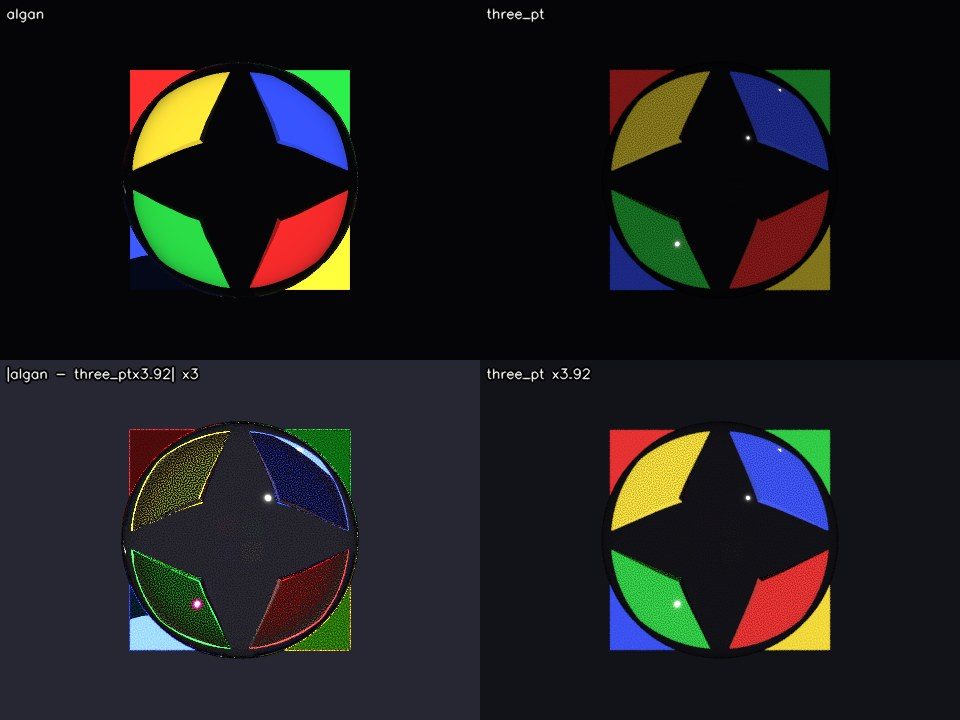
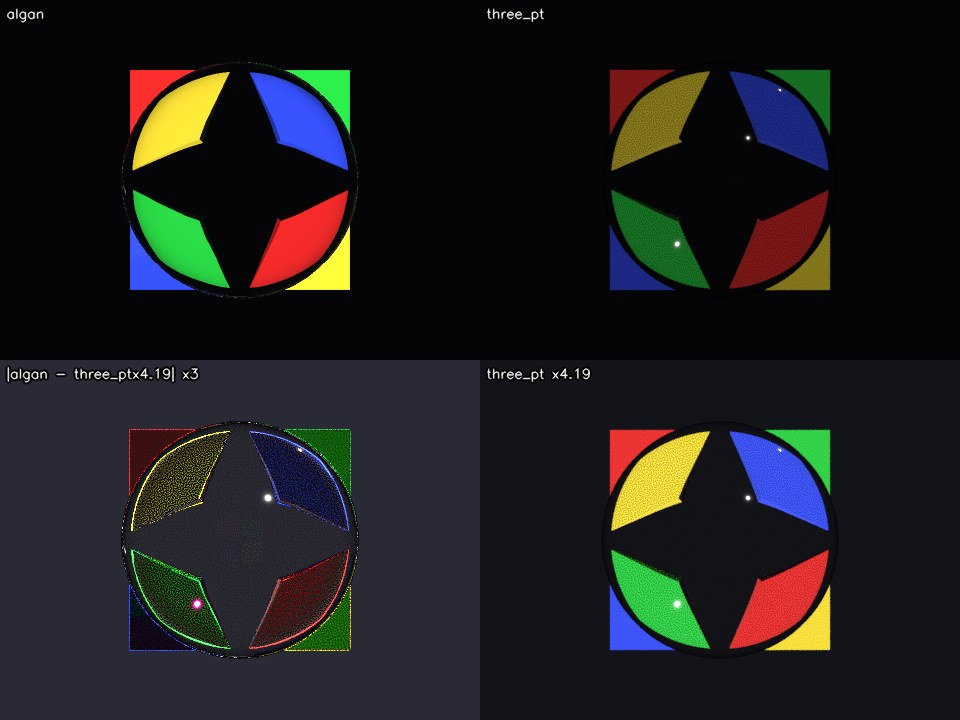
Let a transmissive surface pass light to a shadow ray
Measured against three-gpu-pathtracer on a scene with a clear glass sphere and
an opaque sphere of the same size over a floor, lit straight down
(benchmarks/renderer_audit/scenes/calib_shadow.json): the glass sphere's
shadow was 1.0% of the open floor's brightness, and so was the opaque
sphere's. The reference passes 101.9% (above 100 because a glass ball is a
lens). Algan's glass blocked light exactly as completely as a brick.

The shadow march attenuated by coverage alone -- transmitted *= 1.0 - alpha --
and never read transmission or ior, so a window, a wine glass and a brick were
one object to a shadow ray. Each hit now passes

    transmission * (1 - metalness) * (1 - F0)

of the light it covers. F0 is the normal-incidence dielectric reflectance
rather than a real angle-dependent Fresnel: the march has no normals, and
fetching them would cost the hottest loop in the renderer for a second-order
effect. It is also less of an approximation than it sounds, because a solid
presents the march two surfaces, entry and exit, each taking its own 1 - F0.
Metalness gates transmission off exactly as _material_reflectance does, so a
metal stays opaque at any transmission. The same change lands in the KBUF
gather variant, which peels the same stack.

Two things it deliberately does not do, both because a shadow query returns
one scalar per light: it does not bend the light, so there is no caustic core,
and it does not tint it, so the shadow under green glass gets brighter but
[…]

diff --git a/algan/rendering/raytracing/raytrace_kernels_taichi.py b/algan/rendering/raytracing/raytrace_kernels_taichi.py
@@ -1494,6 +1494,80 @@ def _triangle_extra(f, prim, w0, w1, w2, tri_extra: ti.template()):
 
 
 @ti.func
+def _shadow_pass_through(f, prim, hit_type, w0, w1, w2,
+                         tri_extra: ti.template(),
+                         circuit_meta: ti.template()):
+    """Fraction of the light a *covered* surface still passes to a shadow ray.
+
+    The march multiplies by ``1 - alpha`` for the part of the pixel a surface
+    does not cover; this is what the covered part does with the light, which
+    for anything transmissive is most of it. Without it a wine glass and a
+    brick are the same object to a shadow ray -- measured against a path
+    tracer, a clear glass sphere's shadow was as dark as an opaque sphere's
+    (1% of the open floor, where the reference passes ~100%).
+
+        pass = transmission * (1 - metalness) * (1 - F0)
+
+    ``metalness < 0`` is the non-PBR sentinel and passes nothing, matching the
+    old behaviour exactly. The metal share never transmits, the same gate
+    ``_material_reflectance`` applies via ``diel_pass``.
+
+    F0 is the *normal-incidence* dielectric reflectance, not an angle-dependent
+    Fresnel: the march has no normals and fetching them would cost the hottest
+    loop in the renderer for a second-order effect. It is also less of an
+    approximation than it looks -- a solid presents the march two surfaces
+    (entry and exit), each taking its own ``1 - F0``, so a glass ball attenuates
+    by 0.96^2 on its own.
+
+    Two things this deliberately does not model, both because the payload
+    cannot carry them:
+
+    * **Refraction.** Real glass bends the light it passes, which is why a
+      glass ball's shadow has a bright caustic core; a shadow ray that
+      continues straight cannot produce one.
+    * **Colour.** Light through green glass should arrive green, but a shadow
+      query returns one scalar visibility per light (``vis[li]``), so the
+      shadow gets brighter and stays grey. Tinting it would mean an RGB
+      visibility payload all the way through the shade path.
+
+    So the honest description is "a transmissive surface stops blocking light",
+    not "glass casts a correct shadow".
+    """
+    metalness = -1.0
+    ior = 0.0
+    transmission = 0.0
+    if hit_type == 1:
+        # Same guard as ``_flat_triangle_extra``: a promoted constant-material
+        # triangle sits past the shrunk ``tri_extra``, and has no per-vertex row.
+        if prim < tri_extra.shape[1]:
+            te = f % tri_extra.shape[0]
+            metalness = (w0 * tri_extra[te, prim, 0]
+                         + w1 * tri_extra[te, prim, 2]
+                         + w2 * tri_extra[te, prim, 4])
+            ior = (w0 * tri_extra[te, prim, 6]
+                   + w1 * tri_extra[te, prim, 7]
+                   + w2 * tri_extra[te, prim, 8])
+            transmission = (w0 * tri_extra[te, prim, 9]
+                            + w1 * tri_extra[te, prim, 10]
+                            + w2 * tri_extra[te, prim, 11])
+    else:
+        cm = f % circuit_meta.shape[0]
+        metalness = circuit_meta[cm, prim, _M_REFLECTIVITY]
+        ior = circuit_meta[cm, prim, _M_IOR]
+        transmission = circuit_meta[cm, prim, _M_TRANSMISSION]
+    out = 0.0
+    if (metalness >= 0.0) and (transmission > 1e-4):
+        m = ti.math.clamp(metalness, 0.0, 1.0)
+        io = ti.abs(ior)
+        f0 = 0.0
+        if io > 1.0 + 1e-4:
+            r0 = (1.0 - io) / (1.0 + io)
+            f0 = r0 * r0
+        out = ti.math.clamp(transmission, 0.0, 1.0) * (1.0 - m) * (1.0 - f0)
+    return ti.math.clamp(out, 0.0, 1.0)
+
+
+@ti.func
 def _triangle_normal(f, prim, w0, w1, w2, tri_norm: ti.template(),
                      tri_pos: ti.template()):
     """Interpolated shading normal of a triangle hit, falling back to the
@@ -2448,6 +2522,7 @@ def _shadow_occluded(refit: ti.template(), anyhit: ti.template(),
                      t_first_leaf, tri_pos: ti.template(),
                      tri_colors: ti.template(), tri_uvs: ti.template(),
                      tri_tex_meta: ti.template(), textures: ti.template(),
+                     tri_extra: ti.template(),
                      num_colored_triangles: ti.i32,
                      b_nodes: ti.template(), b_node_miss: ti.template(),
                      b_leaf_prim: ti.template(), b_leaf_tspan: ti.template(),
@@ -2503,7 +2578,7 @@ def _shadow_occluded(refit: ti.template(), anyhit: ti.template(),
                 has_tri, has_bez,
                 t_nodes, t_node_miss, t_leaf_prim, t_leaf_tspan,
                 t_first_leaf, tri_pos, tri_colors, tri_uvs, tri_tex_meta,
-                textures, num_colored_triangles,
+                textures, tri_extra, num_colored_triangles,
                 b_nodes, b_node_miss, b_leaf_prim, b_leaf_tspan,
                 b_first_leaf, circuit_meta, circuit_colors,
                 circuit_border_colors, edges_2d, edge_accel)
@@ -2514,7 +2589,7 @@ def _shadow_occluded(refit: ti.template(), anyhit: ti.template(),
                 has_tri, has_bez,
                 t_nodes, t_node_miss, t_leaf_prim, t_leaf_tspan,
                 t_first_leaf, tri_pos, tri_colors, tri_uvs, tri_tex_meta,
-                textures, num_colored_triangles,
+                textures, tri_extra, num_colored_triangles,
                 b_nodes, b_node_miss, b_leaf_prim, b_leaf_tspan,
                 b_first_leaf, circuit_meta, circuit_colors,
                 circuit_border_colors, edges_2d, edge_accel)
@@ -2536,6 +2611,7 @@ def _shadow_march_occluded(refit: ti.template(), anyhit: ti.template(),
                            tri_colors: ti.template(), tri_uvs: ti.template(),
                            tri_tex_meta: ti.template(),
                            textures: ti.template(),
+                           tri_extra: ti.template(),
                            num_colored_triangles: ti.i32,
                            b_nodes: ti.template(), b_node_miss: ti.template(),
                            b_leaf_prim: ti.template(),
@@ -2591,8 +2667,18 @@ def _shadow_march_occluded(refit: ti.template(), anyhit: ti.template(),
             alpha = _circuit_alpha(prim, f, a, b, border, circuit_meta,
                                    circuit_colors, circuit_border_colors)
         alpha = ti.math.clamp(alpha, 0.0, 1.0)
-        transmitted *= 1.0 - alpha
-        if alpha >= 1.0:
+        # What the covered part of the surface passes -- 0 for anything
+        # opaque, so this is byte-identical wherever nothing transmits (see
+        # ``_shadow_pass_through``, and the host gate in ``tracer.py`` that
+        # keeps a transmissive batch off the any-hit modes, which answer a
+        # question this makes no longer equivalent).
+        passed = _shadow_pass_through(f, prim, hit_type, 1.0 - a - b, a, b,
+                                      tri_extra, circuit_meta)
+        transmitted *= 1.0 - alpha * (1.0 - passed)
+        if transmitted <= MIN_ALPHA:
+            transmitted = 0.0
+            break
+        if (alpha >= 1.0) and (passed <= 0.0):
             break
         if ti.static(anyhit == 2):
             # Deferred opaque any-hit: the ray just peeled a partially
@@ -2641,6 +2727,7 @@ def _shadow_gather_occluded(refit: ti.template(),
                             tri_uvs: ti.template(),
                             tri_tex_meta: ti.template(),
                             textures: ti.template(),
+                            tri_extra: ti.template(),
                             num_colored_triangles: ti.i32,
                             b_nodes: ti.template(),
                             b_node_miss: ti.template(),
@@ -2758,8 +2845,16 @@ def _shadow_gather_occluded(refit: ti.template(),
                                                circuit_meta, circuit_colors,
                                                circuit_border_colors)
                     alpha = ti.math.clamp(alpha, 0.0, 1.0)
-                    transmitted *= 1.0 - alpha
-                    if alpha >= 1.0:
+                    # See the march: a transmissive surface passes light
+                    # rather than blocking it.
+                    passed = _shadow_pass_through(
+                        f, prim, hit_type, 1.0 - a - b, a, b,
+                        tri_extra, circuit_meta)
+                    transmitted *= 1.0 - alpha * (1.0 - passed)
+                    if transmitted <= MIN_ALPHA:
+                        transmitted = 0.0
+                        alive = 0
+                    elif (alpha >= 1.0) and (passed <= 0.0):
                         alive = 0
                     else:
                         t_prev = t_hit

diff --git a/algan/rendering/raytracing/scene_builder.py b/algan/rendering/raytracing/scene_builder.py
@@ -14,7 +14,11 @@ from algan.rendering.raytracing.primitives import (
     RayTracedBezierCircuitPrimitive,
     RayTracedTrianglePrimitive,
 )
-from algan.rendering.raytracing.raytrace_kernels_taichi import _M_REFLECTIVITY, _M_WIDTH
+from algan.rendering.raytracing.raytrace_kernels_taichi import (
+    _M_REFLECTIVITY,
+    _M_TRANSMISSION,
+    _M_WIDTH,
+)
 from algan.rendering.raytracing.refit_bvh import build_refit_bvh
 from algan.rendering.raytracing.settings import (
     _USER_PIPELINE_BASE,
@@ -1638,6 +1642,27 @@ def _merge_scene(primitives):
     scene["has_refl_transparent"] = _has_refl_transparent(
         triangles, _pbr_from_extra("_rt_tri_extra")
     ) or _has_refl_transparent(beziers, _pbr_from_circuit_meta)
+
+    # Does anything in the batch pass light through itself? Shadow rays need
+    # to know: a transmissive surface attenuates rather than blocks (see
+    # ``raytrace_kernels_taichi._shadow_pass_through``), which is exactly the
+    # thing the opaque any-hit shadow modes assume cannot happen -- they answer
+    # "is there any hit" and treat a hit as full occlusion. ``tracer`` keeps
+    # such a batch on the ordered march. Deliberately conservative in the same
+    # way as ``has_refl_transparent``: a false positive costs a slower shadow
+    # query, a false negative renders a black shadow under a pane of glass.
+    def _any_transmissive(prims, attr, cols):
+        for p in prims:
+            extra = getattr(p, attr, None)
+            if extra is None or extra.shape[1] == 0:
+                continue
+            if bool((extra[..., cols] > 0.0).any()):
+                return True
+        return False
+
+    scene["has_transmissive"] = _any_transmissive(
+        triangles, "_rt_tri_extra", slice(9, 12)
+    ) or _any_transmissive(beziers, "_rt_circuit_meta", _M_TRANSMISSION)
 
     if beziers:
         scene["circuit_meta"] = _cat_collections(

diff --git a/algan/rendering/raytracing/wavefront_kernels_taichi.py b/algan/rendering/raytracing/wavefront_kernels_taichi.py
@@ -1903,6 +1903,7 @@ def wavefront_shadow(
         tri_pos: ti.types.ndarray(), tri_norm: ti.types.ndarray(),
         tri_colors: ti.types.ndarray(), tri_uvs: ti.types.ndarray(),
         tri_tex_meta: ti.types.ndarray(), textures: ti.types.ndarray(),
+        tri_extra: ti.types.ndarray(),
         num_colored_triangles: ti.i32,
         b_nodes: NODE_ARG, b_node_miss: ti.types.ndarray(),
         b_leaf_prim: ti.types.ndarray(), b_leaf_tspan: ti.types.ndarray(),
@@ -2009,6 +2010,7 @@ def wavefront_shadow(
                                                 t_first_leaf, tri_pos,
                                                 tri_colors, tri_uvs,
                                                 tri_tex_meta, textures,
+                                                tri_extra,
                                                 num_colored_triangles,
                                                 b_nodes, b_node_miss,
                                                 b_leaf_prim, b_leaf_tspan,
@@ -2467,6 +2469,7 @@ def wavefront_shade(
                                                     t_first_leaf, tri_pos,
                                                     tri_colors, tri_uvs,
                                                     tri_tex_meta, textures,
+                                                    tri_extra,
                                                     num_colored_triangles,
                                                     b_nodes, b_node_miss,
                                                     b_leaf_prim, b_leaf_tspan,

diff --git a/algan/rendering/raytracing/raster_taichi.py b/algan/rendering/raytracing/raster_taichi.py
@@ -2577,7 +2577,8 @@ def raster_shadow_trace(
         t_first_leaf: int,
         tri_pos: ti.types.ndarray(), tri_colors: ti.types.ndarray(),
         tri_uvs: ti.types.ndarray(), tri_tex_meta: ti.types.ndarray(),
-        textures: ti.types.ndarray(), num_colored_triangles: ti.i32,
+        textures: ti.types.ndarray(), tri_extra: ti.types.ndarray(),
+        num_colored_triangles: ti.i32,
         b_nodes: NODE_ARG, b_node_miss: ti.types.ndarray(),
         b_leaf_prim: ti.types.ndarray(), b_leaf_tspan: ti.types.ndarray(),
         b_first_leaf: int,
@@ -2746,7 +2747,8 @@ def raster_shadow_trace(
                         has_tri, has_bez,
                         t_nodes, t_node_miss, t_leaf_prim, t_leaf_tspan,
                         t_first_leaf, tri_pos, tri_colors, tri_uvs,
-                        tri_tex_meta, textures, num_colored_triangles,
+                        tri_tex_meta, textures, tri_extra,
+                        num_colored_triangles,
                         b_nodes, b_node_miss, b_leaf_prim, b_leaf_tspan,
                         b_first_leaf, circuit_meta, circuit_colors,
                         circuit_border_colors, edges_2d, edge_accel)

diff --git a/algan/rendering/raytracing/tracer.py b/algan/rendering/raytracing/tracer.py
@@ -1182,6 +1182,16 @@ def render_batch_raytraced(
     if shadow_flag and rt_settings.SHADOW_ANYHIT:
         if rt_settings.SHADOW_ANYHIT == "gather":
             shadow_flag = 4
+        elif merged.get("has_transmissive", True):
+            # Both any-hit modes ask "is anything there", and answer full
+            # occlusion when something is. That was equivalent to the march
+            # while a covered surface always blocked; it is not once a
+            # transmissive one passes light instead (see
+            # ``raytrace_kernels_taichi._shadow_pass_through``) -- a glass
+            # ball is alpha 1, so it does not even read as translucent below.
+            # Such a batch keeps the ordered march, which evaluates the
+            # attenuation exactly.
+            shadow_flag = 1
         else:
             batch_has_translucent = (
                 merged.get("tri_has_translucent", True)

diff --git a/algan/rendering/raytracing/raster_pipeline.py b/algan/rendering/raytracing/raster_pipeline.py
@@ -2054,6 +2054,7 @@ def shade_sparse_raster_coverage(
                 merged["tri_uvs"],
                 merged["tri_tex_meta"],
                 merged["textures"],
+                merged["tri_extra"],
                 int(merged["num_colored_triangles"]),
                 bez_bvh.blocks,
                 bez_bvh.node_miss,

diff --git a/benchmarks/renderer_audit/REPORT.md b/benchmarks/renderer_audit/REPORT.md
@@ -191,20 +191,42 @@ falls back into local shading rather than contributing black.
 same size side by side over a floor, lit straight down, so each shadow sits
 directly beneath its sphere and the two are trivial to compare.
 
-| | floor | glass sphere's shadow | opaque sphere's shadow |
-| --- | --- | --- | --- |
-| Algan (before) | 0.694 | 0.0070 — **1.0% of the floor** | 0.0070 — 1.0% |
-| Three.js path tracer | 0.154 | 0.157 — **101.9% of the floor** | 0.007 — 4.6% |
-| Three.js raster | 0.195 | 0.000 — 0% | 0.000 — 0% |
+| | glass sphere's shadow | opaque sphere's shadow |
+| --- | --- | --- |
+| Algan, before | **1.0% of the floor** | 1.0% |
+| **Algan, after** | **85.1% of the floor** | 1.0% |
+| Three.js path tracer | 101.9% of the floor | 4.6% |
+| Three.js raster | 0% | 0% |
 
-(Linear radiance; the glass patch exceeds 100% in the path tracer because the
-sphere is a lens and concentrates light.)
+(Linear radiance, each shadow patch as a fraction of the open floor. The glass
+patch exceeds 100% in the path tracer because the sphere is a lens and
+concentrates light.)
 
 Algan's glass blocked light **exactly as completely as an opaque sphere of the
 same size**. The shadow march attenuated by coverage alone —
 `transmitted *= 1.0 - alpha` — and never consulted `transmission` or `ior`, so a
 window, a wine glass and a brick were the same object to a shadow ray. This was
 the single largest structural error found.
+
+Now each shadow-ray hit passes `transmission · (1 - metalness) · (1 - F0)` of the
+light it covers. `F0` is the normal-incidence dielectric reflectance rather than
+a real angle-dependent Fresnel — the march has no normals and fetching them
+would cost the hottest loop in the renderer for a second-order effect — and it is
+less of an approximation than it sounds, because a solid presents the march two
+surfaces, entry and exit, each taking its own `1 - F0`.
+
+Two things it deliberately does not do, both because the shadow payload is one
+scalar per light: it does not bend the light (so there is no caustic core), and
+it does not tint it (so the shadow under green glass gets brighter but stays
+grey, where the path tracer's turns green). "A transmissive surface stops
+blocking light" is the honest description, not "glass casts a correct shadow".
+
+The any-hit shadow fast paths had to be gated: modes 2 and 3 answer "is anything
+there" and treat a hit as full occlusion, which stopped being equivalent to the
+march once a covered surface can pass light — and a glass ball is `alpha = 1`, so
+it does not even register as translucent. A batch containing transmissive
+geometry now stays on the ordered march. Scenes without any keep their fast path
+and their pixels: `calib_mirror.algan.png` is **byte-identical** across the change.
 
 ![shadow calibration](out/calib_shadow.compare.jpg)
 
@@ -296,8 +318,31 @@ material-appearance control living among ~55 experimental performance switches.
 `MeshPhysicalMaterial`, documented, and then **silently dropped** — they never
 reach the GPU. Instead the transmitted ray is tinted by the surface albedo at
 *every* interface crossing, so a coloured pane is tinted twice (entry and exit)
-and a metre-thick block is tinted exactly the same as a thin shell. Depth-dependent
-colour — the most recognisable property of real coloured glass — is unreachable.
+and a metre-thick block is tinted exactly the same as a thin shell.
+
+`scenes/calib_absorption.json` makes that concrete: three glass spheres of radius
+0.55, 1.05 and 1.75, identical material, against a white backdrop. Mean linear
+RGB through the centre of each:
+
+| radius | Algan | Three.js path tracer |
+| --- | --- | --- |
+| 0.55 | (0.032, 0.439, 0.068) | (0.006, 0.067, 0.008) |
+| 1.05 | (0.032, 0.440, 0.069) | (0.000, 0.043, 0.001) |
+| 1.75 | (0.032, 0.440, 0.069) | (0.000, 0.025, 0.000) |
+
+Algan's three spheres are **the same colour to three decimal places** whatever
+their size. The path tracer's deepen with the path length, losing a third of
+their transmitted green from the small sphere to the large one and going
+essentially pure green as the red and blue channels are absorbed away.
+Depth-dependent colour is the most recognisable property of real coloured glass
+and Algan cannot express it at all.
+
+![absorption calibration](out/calib_absorption.compare.jpg)
+
+The same figure shows the limit of the §4.1 shadow fix: the path tracer's glass
+spheres cast **green** shadows, because what reaches the floor has been through
+the glass. Algan's are now pale rather than black — the light gets through — but
+they stay grey, because a shadow query returns one scalar per light.
 
 This is a genuine missing feature rather than a wrong formula, and it needs new
 material slots plumbed through `scene_builder` into three kernel sites. The
@@ -349,6 +394,9 @@ back wall, under a directional key and a blue point light.
    where the motion artefact that justifies the default cannot occur.
 4. **Sheen albedo scaling and clearcoat base attenuation** (§4.4, §3) if glTF
    conformance rather than Three.js parity is the goal.
+5. **Coloured shadows through coloured glass** (§4.1). Needs an RGB visibility
+   payload where there is one scalar per light today, so it is a bigger change
+   than the attenuation it would complete.
 
 ## 7. Files
 
@@ -362,7 +410,7 @@ back wall, under a directional key and a blue point light.
 | `metrics.py` | unit-free transport ratios (transmission and reflection efficiency) |
 | `transfer_probe.py` | Algan's authored-colour → pixel transfer curve |
 | `OX_AUDIT.md` | Ox Alpha's independent source-level audit |
-| `../../OX_FIXES.md`, `../../OX_BEER.md` | Ox Alpha's implementation reports |
+| `../../OX_FIXES.md` | Ox Alpha's implementation report |
 
 Reproduce:
 
